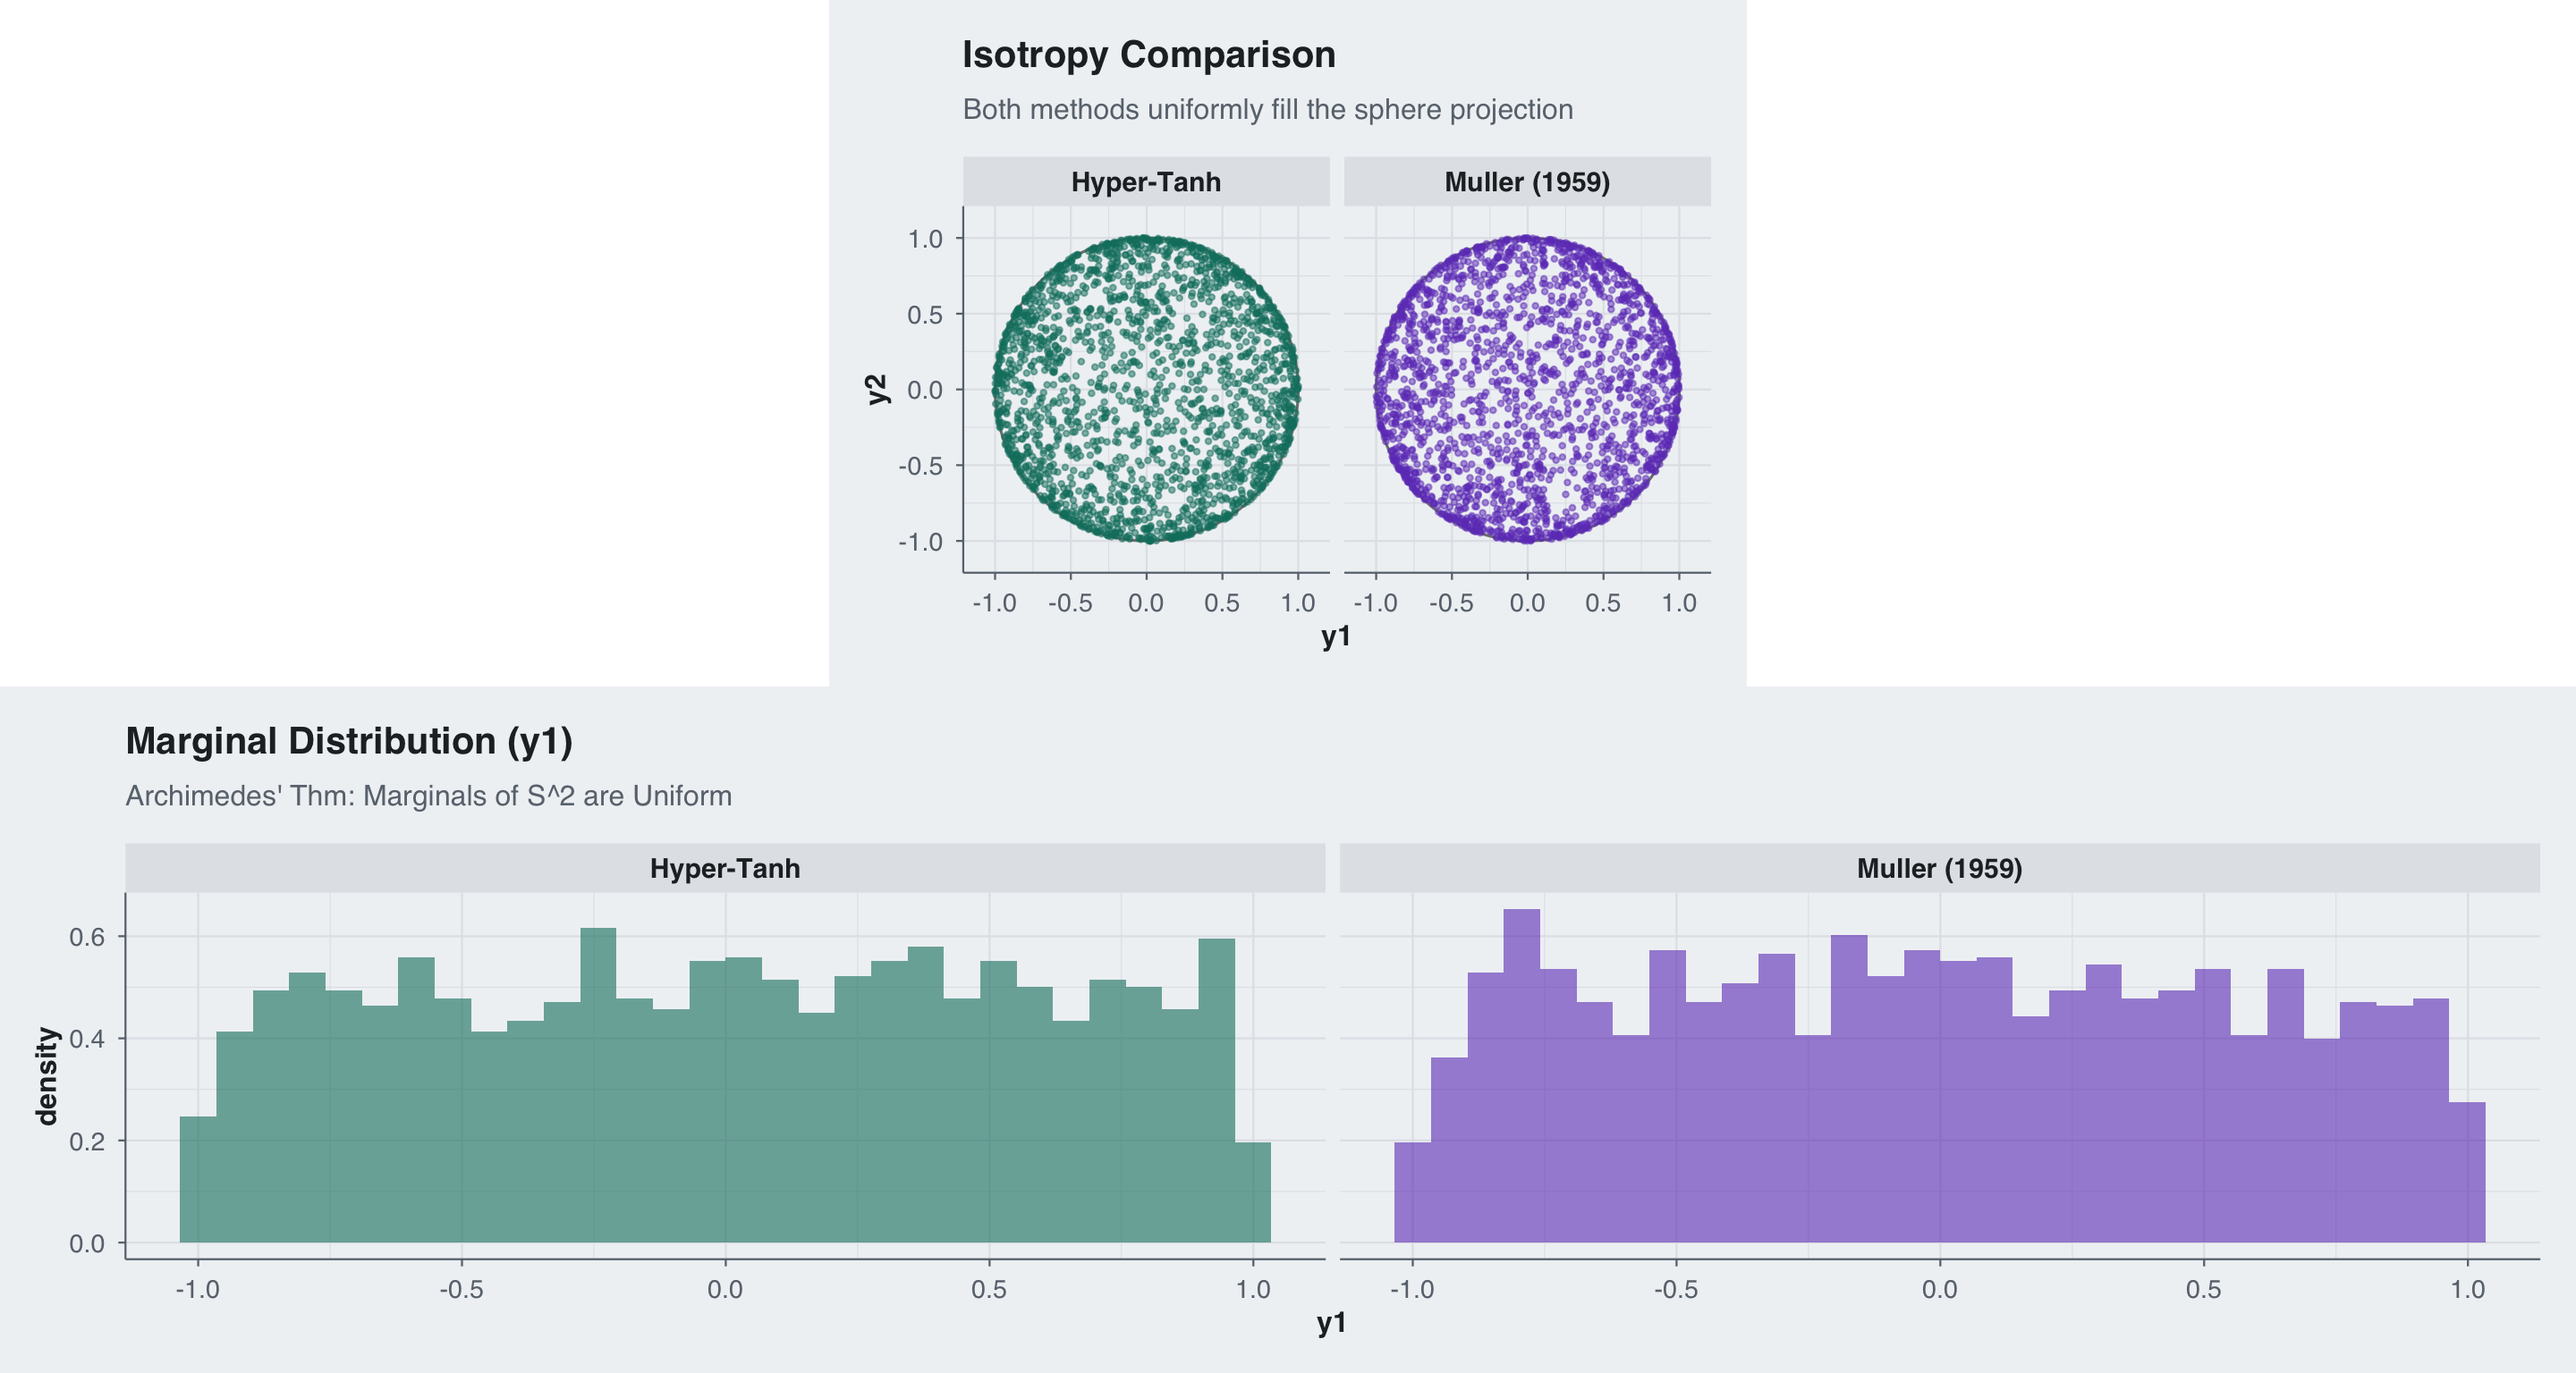
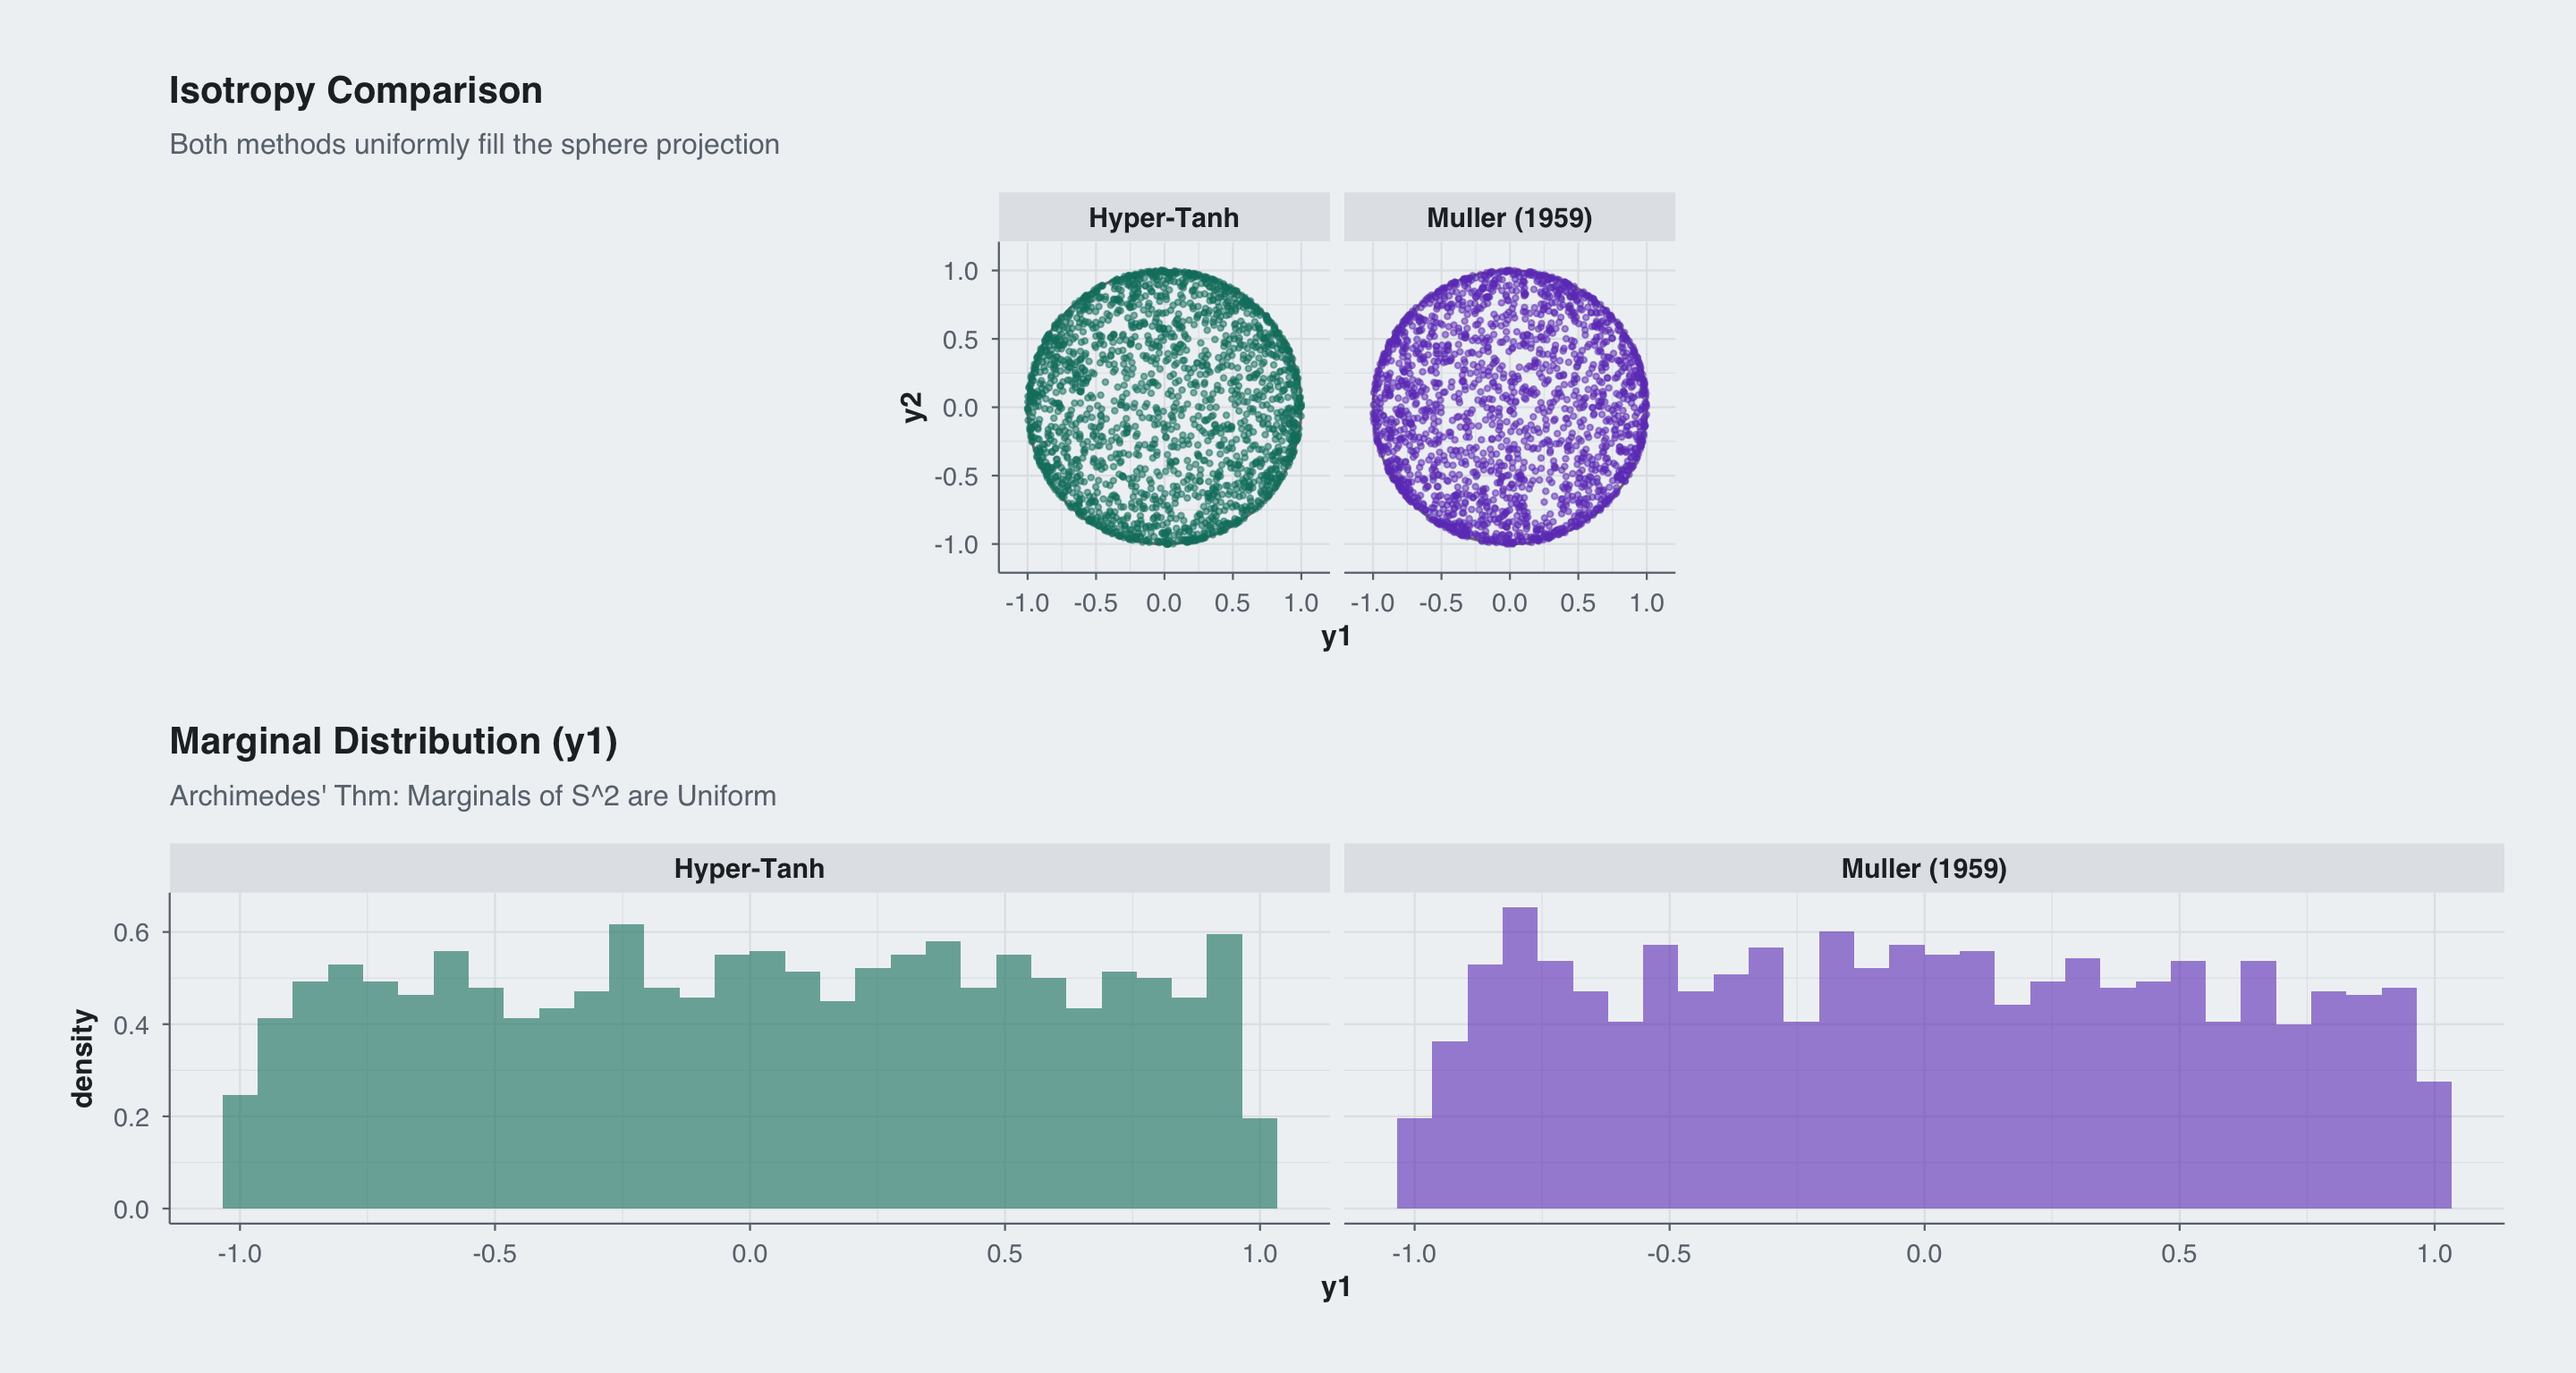
Built site for gh-pages

diff --git a/index.html b/index.html
@@ -240,7 +240,7 @@ window.Quarto = {
     </div>
 </div>
 <div class="list quarto-listing-default">
-<div class="quarto-post image-right" data-index="0" data-categories="c3RhbiUyQ3BhcmFtZXRlcml6YXRpb25z" data-listing-date-sort="1768435200000" data-listing-file-modified-sort="1768564313782" data-listing-date-modified-sort="NaN" data-listing-reading-time-sort="7" data-listing-word-count-sort="1228">
+<div class="quarto-post image-right" data-index="0" data-categories="c3RhbiUyQ3BhcmFtZXRlcml6YXRpb25z" data-listing-date-sort="1768435200000" data-listing-file-modified-sort="1768564548256" data-listing-date-modified-sort="NaN" data-listing-reading-time-sort="7" data-listing-word-count-sort="1228">
 <div class="thumbnail"><a href="./posts/post-3-better-unit-vector/a-better-unit-vector.html" class="no-external">
 
 <p class="card-img-top"><img src="posts/post-3-better-unit-vector/a-better-unit-vector_files/figure-html/uniformity-plot-1.png"  class="thumbnail-image card-img"/></p>
@@ -272,7 +272,7 @@ Sean Pinkney
 </a>
 </div>
 </div>
-<div class="quarto-post image-right" data-index="1" data-categories="c3RhbiUyQ3F1YW50aWxl" data-listing-date-sort="1666483200000" data-listing-file-modified-sort="1768564313782" data-listing-date-modified-sort="NaN" data-listing-reading-time-sort="7" data-listing-word-count-sort="1340">
+<div class="quarto-post image-right" data-index="1" data-categories="c3RhbiUyQ3F1YW50aWxl" data-listing-date-sort="1666483200000" data-listing-file-modified-sort="1768564548256" data-listing-date-modified-sort="NaN" data-listing-reading-time-sort="7" data-listing-word-count-sort="1340">
 <div class="thumbnail"><a href="./posts/post-2-quantile-reg-series/post-2-quantile-reg-part-III/quantile-reg-part-III.html" class="no-external">
 
 <div class="listing-item-img-placeholder card-img-top" >&nbsp;</div>
@@ -304,7 +304,7 @@ Sean Pinkney
 </a>
 </div>
 </div>
-<div class="quarto-post image-right" data-index="2" data-categories="c3RhbiUyQ3F1YW50aWxl" data-listing-date-sort="1666051200000" data-listing-file-modified-sort="1768564313781" data-listing-date-modified-sort="NaN" data-listing-reading-time-sort="13" data-listing-word-count-sort="2462">
+<div class="quarto-post image-right" data-index="2" data-categories="c3RhbiUyQ3F1YW50aWxl" data-listing-date-sort="1666051200000" data-listing-file-modified-sort="1768564548255" data-listing-date-modified-sort="NaN" data-listing-reading-time-sort="13" data-listing-word-count-sort="2462">
 <div class="thumbnail"><a href="./posts/post-2-quantile-reg-series/post-2-quantile-reg-part-II/quantile-reg-part-II.html" class="no-external">
 
 <div class="listing-item-img-placeholder card-img-top" >&nbsp;</div>
@@ -336,7 +336,7 @@ Sean Pinkney
 </a>
 </div>
 </div>
-<div class="quarto-post image-right" data-index="3" data-categories="c3RhbiUyQ3F1YW50aWxl" data-listing-date-sort="1665792000000" data-listing-file-modified-sort="1768564313768" data-listing-date-modified-sort="NaN" data-listing-reading-time-sort="8" data-listing-word-count-sort="1558">
+<div class="quarto-post image-right" data-index="3" data-categories="c3RhbiUyQ3F1YW50aWxl" data-listing-date-sort="1665792000000" data-listing-file-modified-sort="1768564548243" data-listing-date-modified-sort="NaN" data-listing-reading-time-sort="8" data-listing-word-count-sort="1558">
 <div class="thumbnail"><a href="./posts/post-2-quantile-reg-series/post-2-quantile-reg-part-I/quantile-reg.html" class="no-external">
 
 <p class="card-img-top"><img src="posts/post-2-quantile-reg-series/post-2-quantile-reg-part-I/quantile-reg_files/figure-html/unnamed-chunk-8-1.png"  class="thumbnail-image card-img"/></p>
@@ -368,7 +368,7 @@ Sean Pinkney
 </a>
 </div>
 </div>
-<div class="quarto-post image-right" data-index="4" data-categories="c3RhbiUyQ3F1YW50aWxl" data-listing-date-sort="1665705600000" data-listing-file-modified-sort="1768564313130" data-listing-date-modified-sort="NaN" data-listing-reading-time-sort="10" data-listing-word-count-sort="1883">
+<div class="quarto-post image-right" data-index="4" data-categories="c3RhbiUyQ3F1YW50aWxl" data-listing-date-sort="1665705600000" data-listing-file-modified-sort="1768564547606" data-listing-date-modified-sort="NaN" data-listing-reading-time-sort="10" data-listing-word-count-sort="1883">
 <div class="thumbnail"><a href="./posts/post-1-vasciek/vasciek_post.html" class="no-external">
 
 <p class="card-img-top"><img src="posts/post-1-vasciek/vasciek_post_files/figure-html/unnamed-chunk-6-1.png"  class="thumbnail-image card-img"/></p>

diff --git a/quantile-reg-series.html b/quantile-reg-series.html
@@ -210,7 +210,7 @@ window.Quarto = {
 
 <div class="quarto-listing quarto-listing-container-default" id="listing-listing">
 <div class="list quarto-listing-default">
-<div class="quarto-post image-right" data-index="0" data-categories="c3RhbiUyQ3F1YW50aWxl" data-listing-date-sort="1666483200000" data-listing-file-modified-sort="1768564313782" data-listing-date-modified-sort="NaN" data-listing-reading-time-sort="7" data-listing-word-count-sort="1340">
+<div class="quarto-post image-right" data-index="0" data-categories="c3RhbiUyQ3F1YW50aWxl" data-listing-date-sort="1666483200000" data-listing-file-modified-sort="1768564548256" data-listing-date-modified-sort="NaN" data-listing-reading-time-sort="7" data-listing-word-count-sort="1340">
 <div class="body">
 <h3 class="no-anchor listing-title">
 <a href="./posts/post-2-quantile-reg-series/post-2-quantile-reg-part-III/quantile-reg-part-III.html" class="no-external">Quantile Regressions in Stan: Part III</a>
@@ -228,7 +228,7 @@ Oct 23, 2022
 </a>
 </div>
 </div>
-<div class="quarto-post image-right" data-index="1" data-categories="c3RhbiUyQ3F1YW50aWxl" data-listing-date-sort="1666051200000" data-listing-file-modified-sort="1768564313781" data-listing-date-modified-sort="NaN" data-listing-reading-time-sort="13" data-listing-word-count-sort="2462">
+<div class="quarto-post image-right" data-index="1" data-categories="c3RhbiUyQ3F1YW50aWxl" data-listing-date-sort="1666051200000" data-listing-file-modified-sort="1768564548255" data-listing-date-modified-sort="NaN" data-listing-reading-time-sort="13" data-listing-word-count-sort="2462">
 <div class="body">
 <h3 class="no-anchor listing-title">
 <a href="./posts/post-2-quantile-reg-series/post-2-quantile-reg-part-II/quantile-reg-part-II.html" class="no-external">Quantile Regressions in Stan: Part II</a>
@@ -246,7 +246,7 @@ Oct 18, 2022
 </a>
 </div>
 </div>
-<div class="quarto-post image-right" data-index="2" data-categories="c3RhbiUyQ3F1YW50aWxl" data-listing-date-sort="1665792000000" data-listing-file-modified-sort="1768564313768" data-listing-date-modified-sort="NaN" data-listing-reading-time-sort="8" data-listing-word-count-sort="1558">
+<div class="quarto-post image-right" data-index="2" data-categories="c3RhbiUyQ3F1YW50aWxl" data-listing-date-sort="1665792000000" data-listing-file-modified-sort="1768564548243" data-listing-date-modified-sort="NaN" data-listing-reading-time-sort="8" data-listing-word-count-sort="1558">
 <div class="body">
 <h3 class="no-anchor listing-title">
 <a href="./posts/post-2-quantile-reg-series/post-2-quantile-reg-part-I/quantile-reg.html" class="no-external">Quantile Regressions in Stan: Part I</a>

diff --git a/posts/post-3-better-unit-vector/a-better-unit-vector.html b/posts/post-3-better-unit-vector/a-better-unit-vector.html
@@ -299,7 +299,7 @@ y_{K} &amp;= r_{K-1} \sin(\theta) = r_{K-1} \frac{2 x_{K-1}}{1 + x_{K-1}^2}
 <details class="code-fold">
 <summary>Code</summary>
 <div class="code-copy-outer-scaffold"><div class="sourceCode cell-code" id="cb1"><pre class="sourceCode r code-with-copy"><code class="sourceCode r"><span id="cb1-1"><a href="#cb1-1" aria-hidden="true" tabindex="-1"></a><span class="fu">library</span>(ggplot2)</span>
-<span id="cb1-2"><a href="#cb1-2" aria-hidden="true" tabindex="-1"></a><span class="fu">library</span>(gridExtra)</span>
+<span id="cb1-2"><a href="#cb1-2" aria-hidden="true" tabindex="-1"></a><span class="fu">library</span>(patchwork)</span>
 <span id="cb1-3"><a href="#cb1-3" aria-hidden="true" tabindex="-1"></a><span class="fu">library</span>(dplyr)</span>
 <span id="cb1-4"><a href="#cb1-4" aria-hidden="true" tabindex="-1"></a><span class="fu">library</span>(tidyr)</span>
 <span id="cb1-5"><a href="#cb1-5" aria-hidden="true" tabindex="-1"></a></span>
@@ -384,7 +384,7 @@ y_{K} &amp;= r_{K-1} \sin(\theta) = r_{K-1} \frac{2 x_{K-1}}{1 + x_{K-1}^2}
 <span id="cb2-31"><a href="#cb2-31" aria-hidden="true" tabindex="-1"></a>       <span class="at">x=</span><span class="st">"y1"</span>) <span class="sc">+</span></span>
 <span id="cb2-32"><a href="#cb2-32" aria-hidden="true" tabindex="-1"></a>  <span class="fu">theme</span>(<span class="at">legend.position=</span><span class="st">"none"</span>)</span>
 <span id="cb2-33"><a href="#cb2-33" aria-hidden="true" tabindex="-1"></a></span>
-<span id="cb2-34"><a href="#cb2-34" aria-hidden="true" tabindex="-1"></a><span class="fu">grid.arrange</span>(p1, p2, <span class="at">nrow=</span><span class="dv">2</span>)</span></code></pre></div><button title="Copy to Clipboard" class="code-copy-button"><i class="bi"></i></button></div>
+<span id="cb2-34"><a href="#cb2-34" aria-hidden="true" tabindex="-1"></a>p1 <span class="sc">/</span> p2</span></code></pre></div><button title="Copy to Clipboard" class="code-copy-button"><i class="bi"></i></button></div>
 </details>
 <div class="cell-output-display">
 <div>
